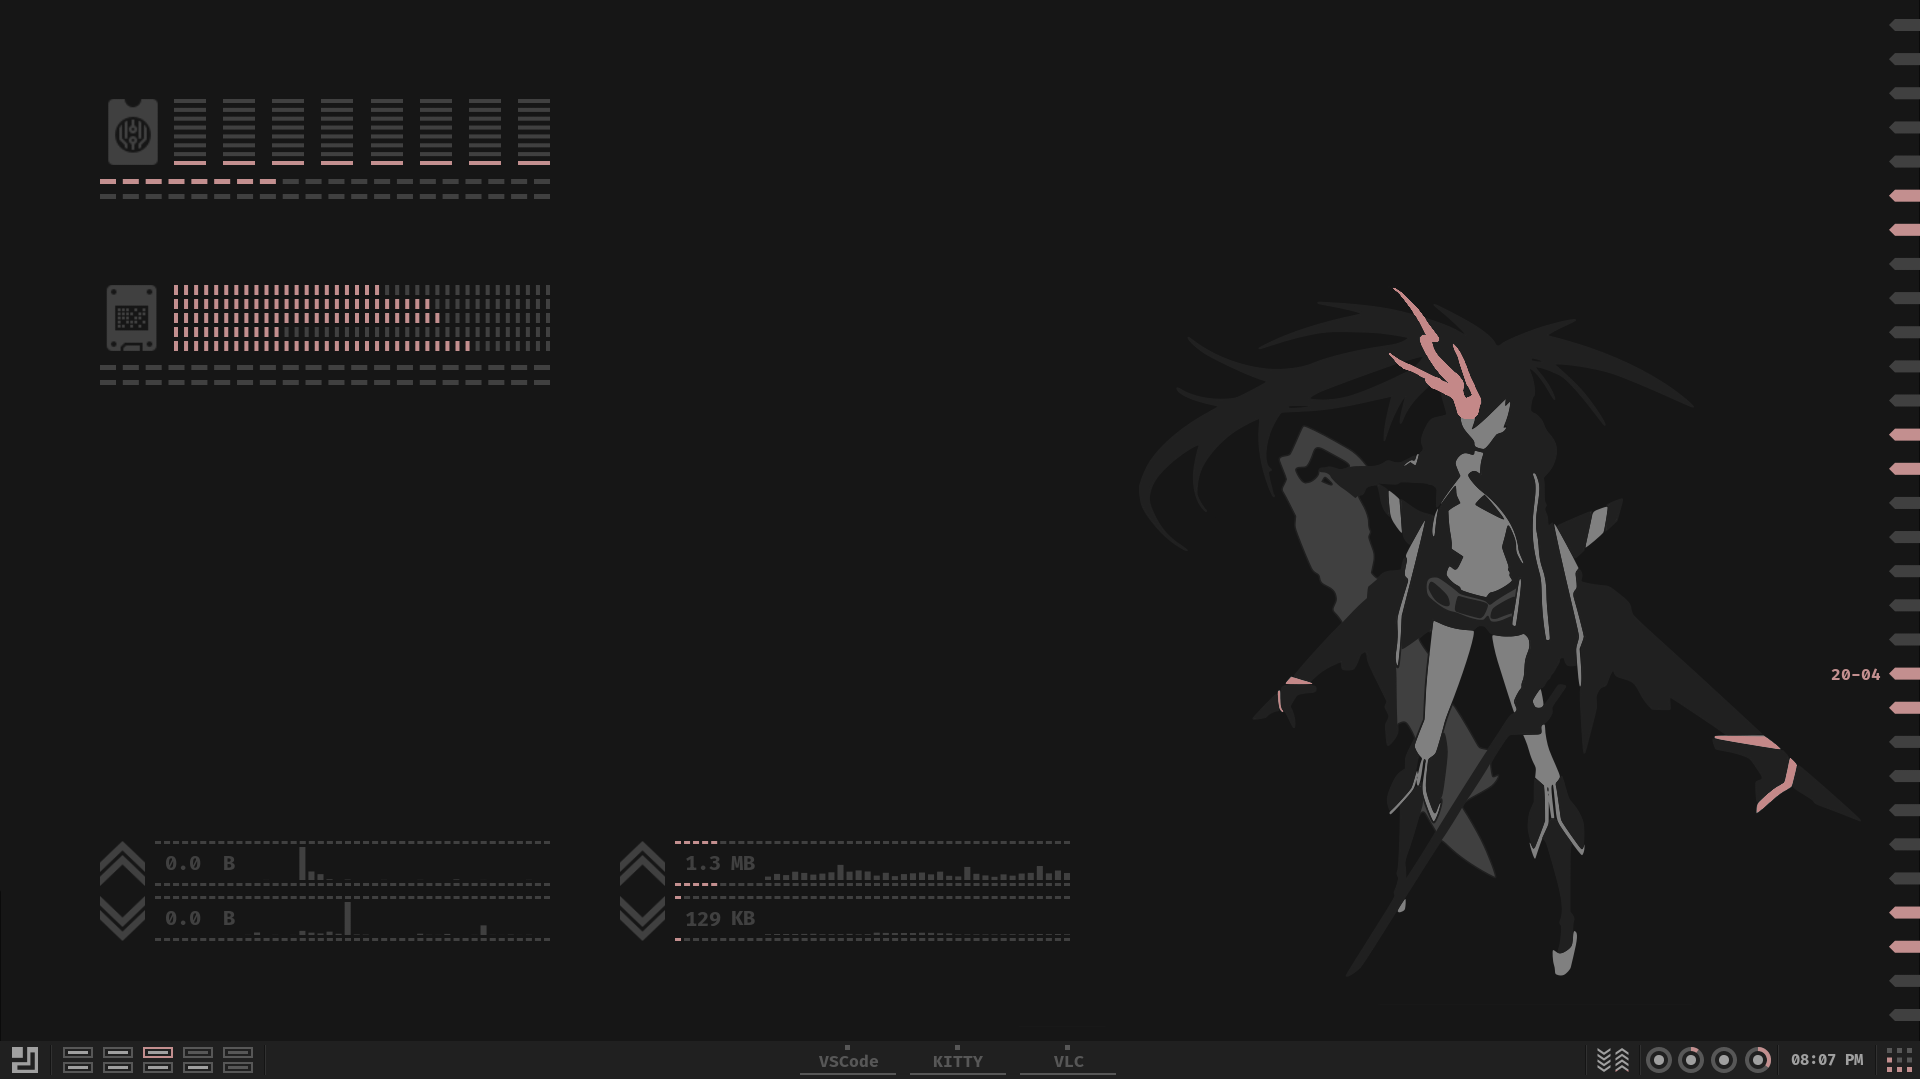
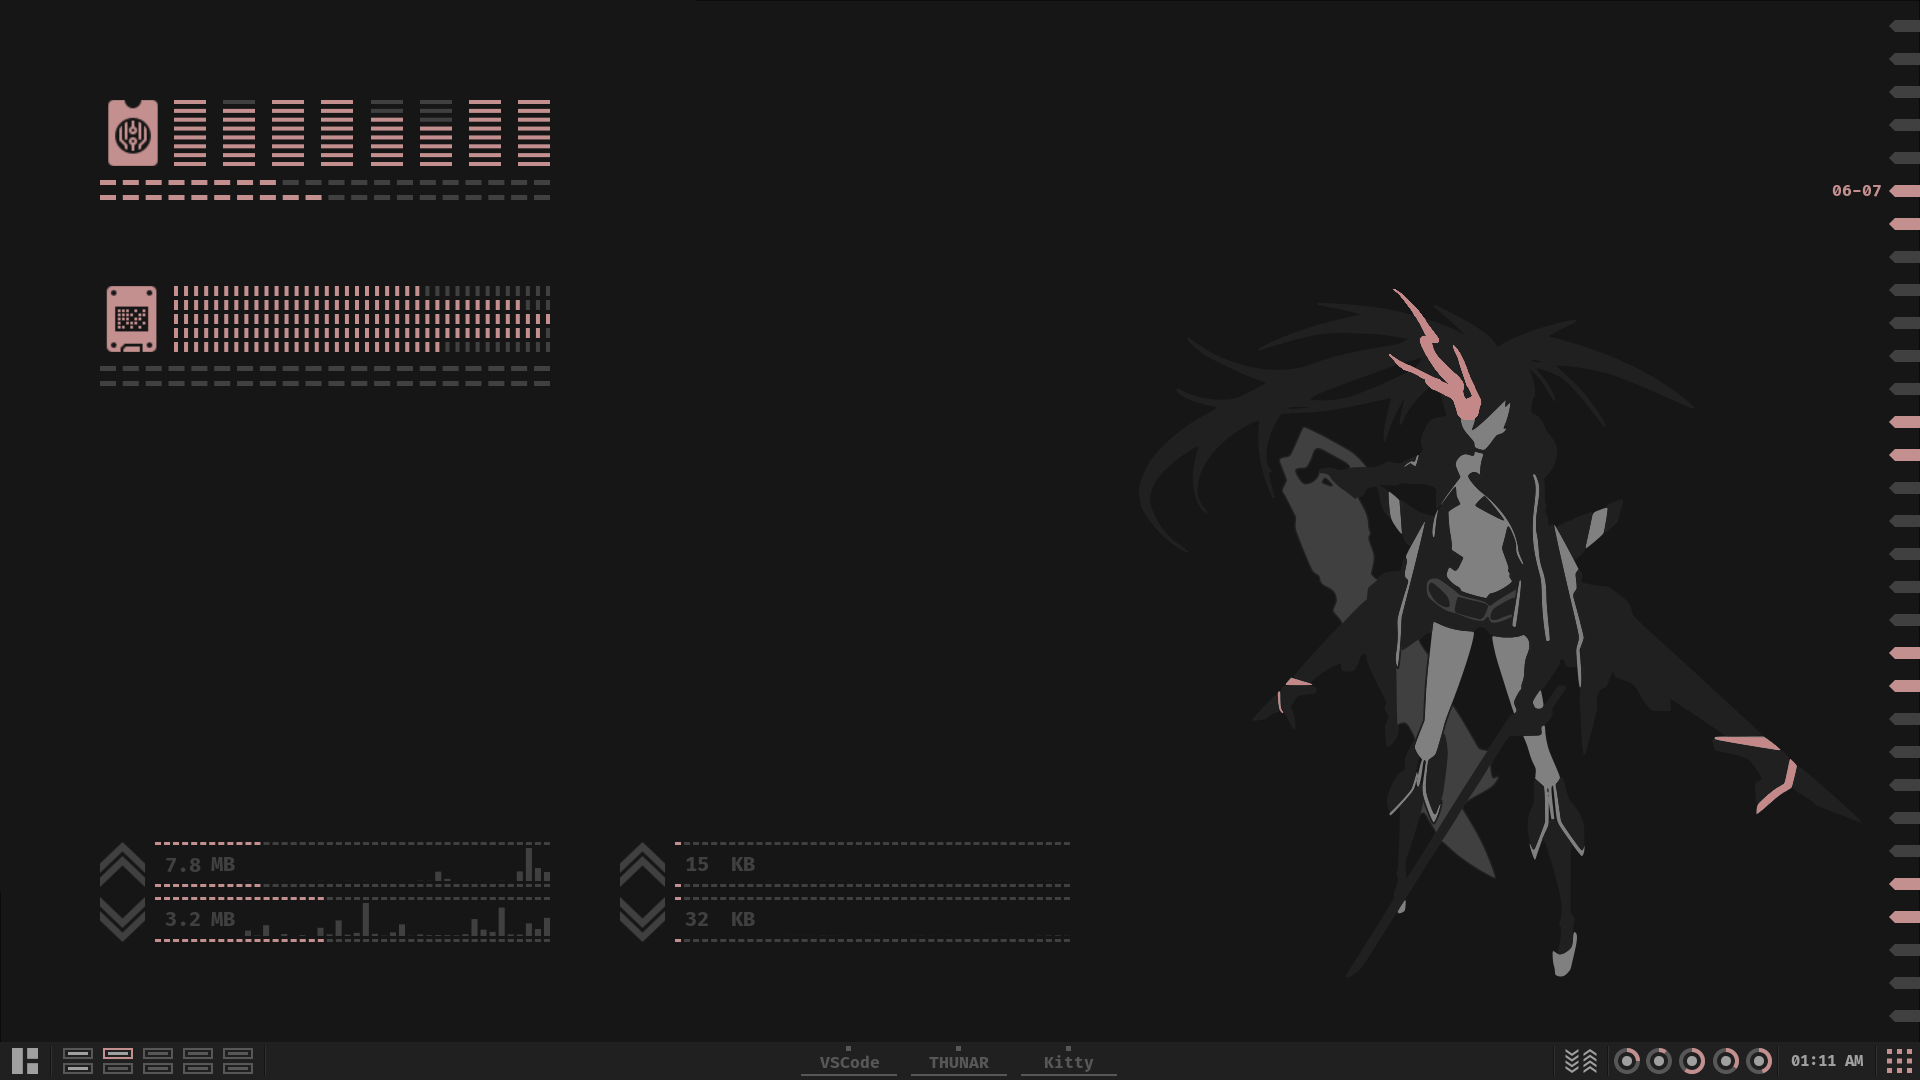
update desktop screenshots

diff --git a/readme.md b/readme.md
@@ -14,7 +14,7 @@ My [Awesome Window Manager](https://awesomewm.org) configuration. It's a highly 
 
 ![Ruby Desktop](screenshots/rosybrown_desktop.png)
 
-![Ruby Desktop Terminal Windows](screenshots/rosybrown_desktop_terminals.png)
+![Ruby Desktop Terminal Windows](screenshots/rosybrown_desktop2.png)
 
 ## Installation
 
